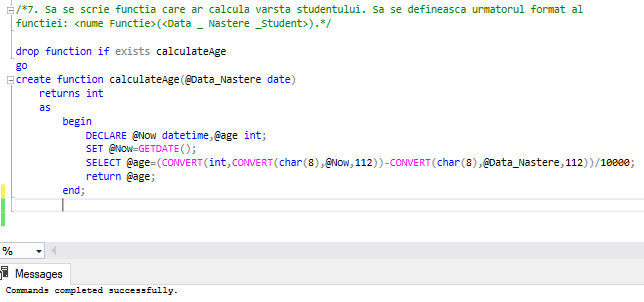
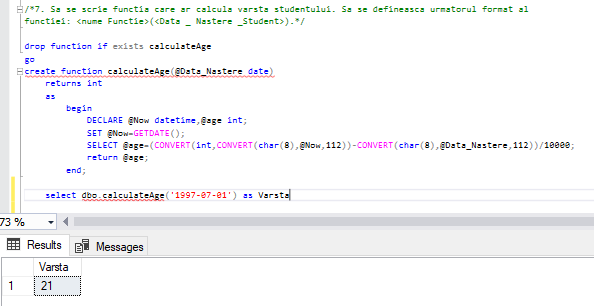
update in lab9.md and lab9.sql

Changed region(s): [[0.0, 0.0, 1.0, 0.9834]]

diff --git a/Laboratory 9/lab9.md b/Laboratory 9/lab9.md
@@ -292,6 +292,9 @@ create function calculateAge(@Data_Nastere date)
 			SELECT @age=(CONVERT(int,CONVERT(char(8),@Now,112))-CONVERT(char(8),@Data_Nastere,112))/10000;
 			return @age;
 		end;
+
+
+	select dbo.calculateAge('1997-07-01') as Varsta
 ```
 
 
